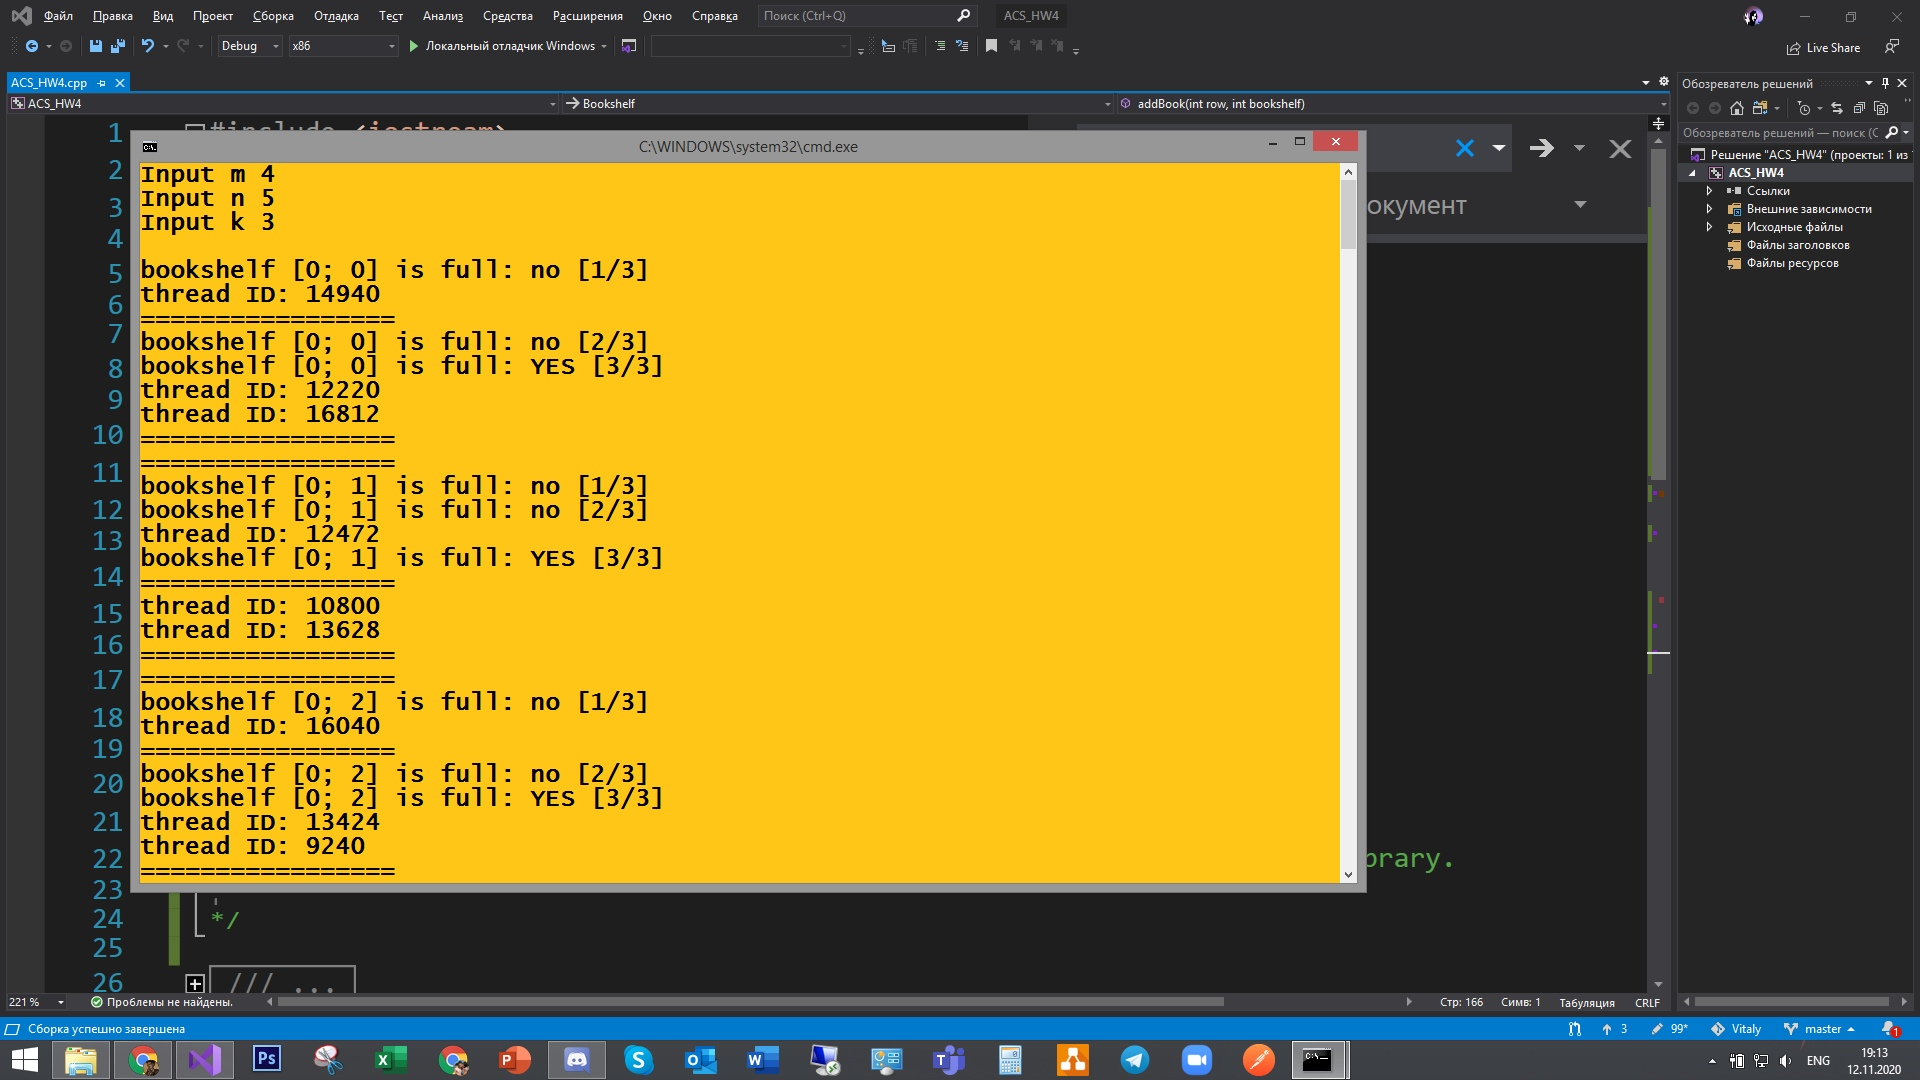
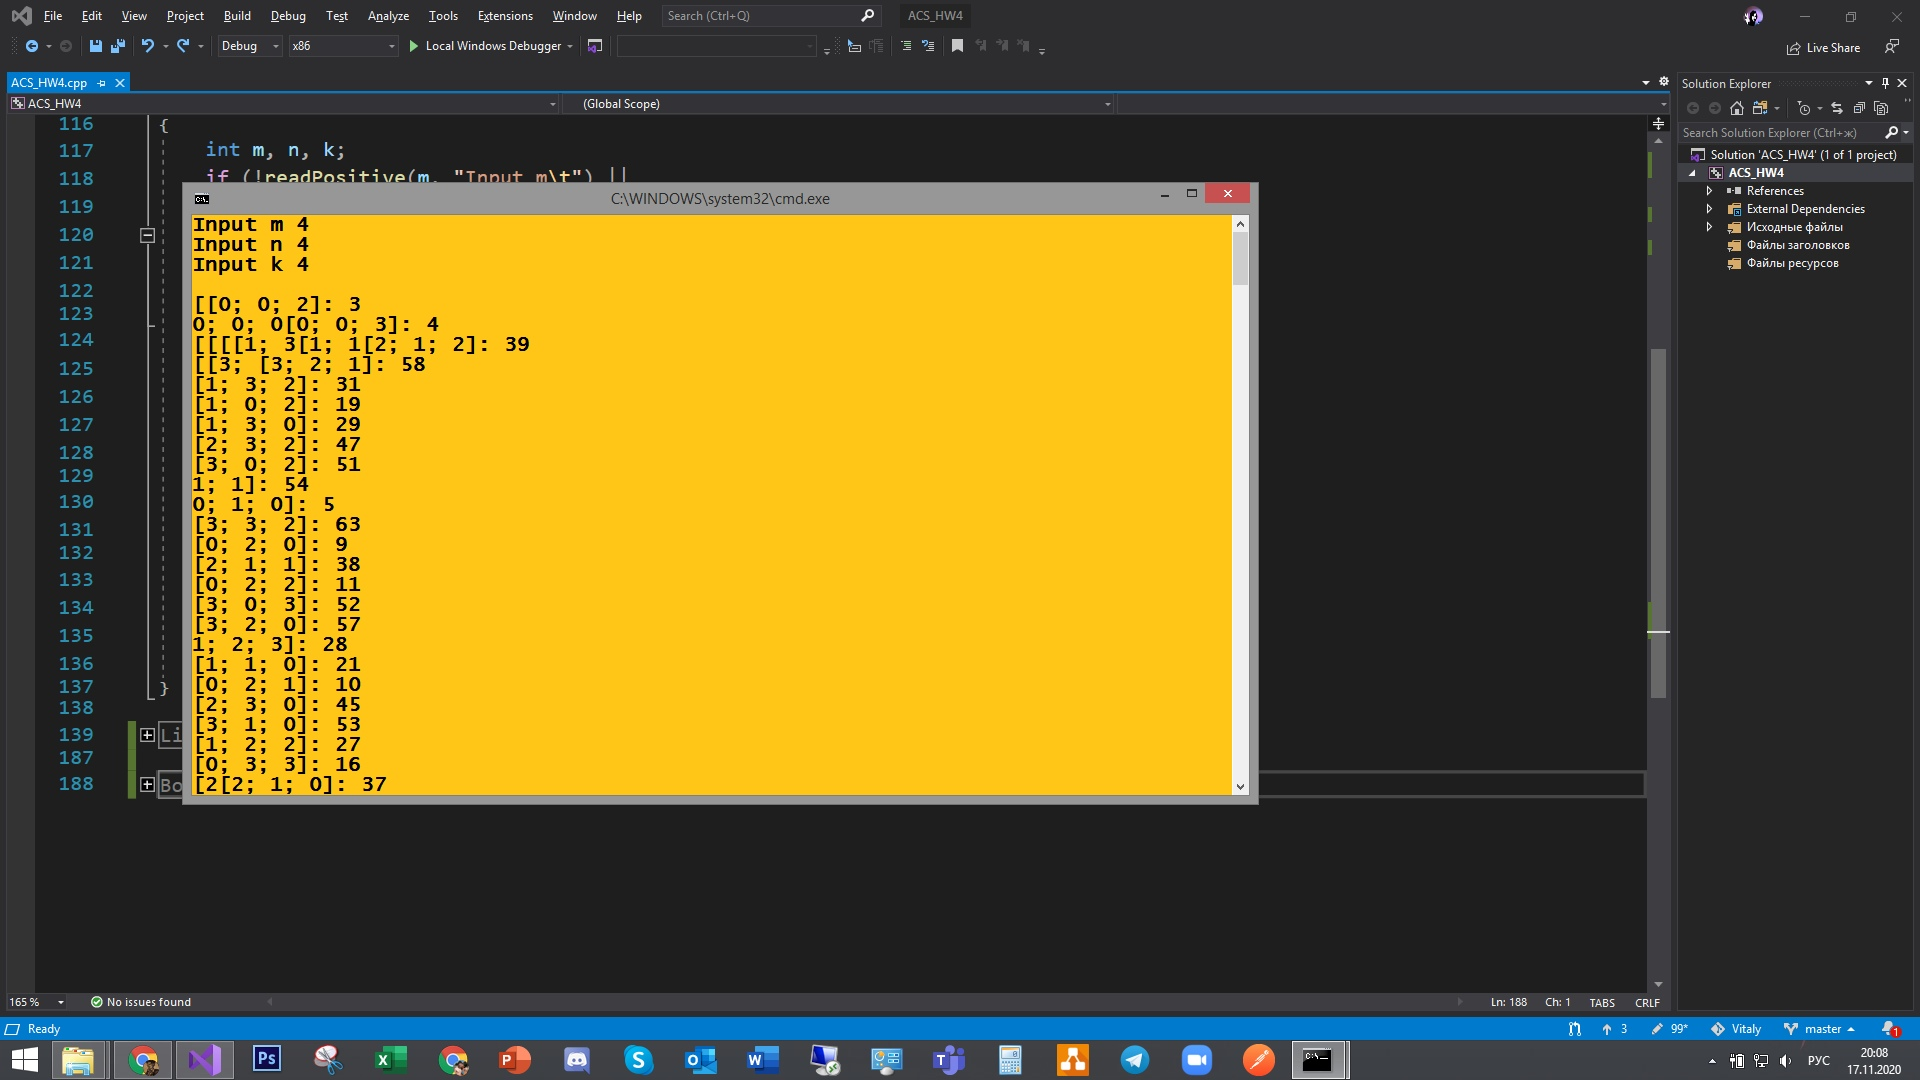
Solution 2

diff --git a/HW3/ACS_HW4.cpp b/HW3/ACS_HW4.cpp
@@ -1,24 +1,25 @@
 #include <iostream>
 #include <thread>
-#include <vector>
 
 using namespace std;
 
 /*
 	Попов Виталий БПИ192
 
+	UPD16.11.20: После семинара добавляю ID книг в каталог
+
 	Структура:
 		Bookshelf - отвечает за хранение и заполнение 1-ой книжной полки.
 		Также способно проверить, заполнена ли книжная полка.
 
-		Library - хранит библиотеку, 
+		Library - хранит библиотеку,
 		представляющую собой ряды по несколько книжных полок.
 
-		Параметры для этих классов не изменяются 
+		Параметры для этих классов не изменяются
 		--> они static и задаются с самого начала.
 
-		Необходимо сделать "Портфель задач", 
-		т.е. занесение 1-ой книги в отдельном потоке. 
+		Необходимо сделать "Портфель задач",
+		т.е. занесение 1-ой книги в отдельном потоке.
 		Многопоточность представлена в методе заполнения Library - FillLibrary.
 
 */
@@ -29,28 +30,31 @@ using namespace std;
 /// </summary>
 class Bookshelf {
 public:
-	static unsigned int maxBooks;
+	static size_t maxBooks;
+
+	Bookshelf() {
+		books = new size_t[maxBooks]{ 0 };
+	}
 
 	/// <summary>
-	/// Метод добавляет 1 книгу и выводит самую последнюю информацию.
-	/// Вывод может искажаться за счёт многопоточности. 
-	/// Выводится самое последнее значение currentBooks, 
-	/// а не то, которое было на момент выполнения потока
-	///
-	/// Также из-за использования 1 потока вывода в консоль
-	/// информация в консоли может искажаться
+	///	Ложит книгу bookID на полку bookPlace.
+	/// Выводит информацию о местоположении книги и её ID
 	/// </summary>
 	/// <param name="row">Для вывода: ряд книг</param>
 	/// <param name="bookshelf">Для вывода: номер книжной полки</param>
-	void addBook(int row, int bookshelf);
+	void addBook(int row, int bookshelf, int bookPlace, int bookID);
 
 	/// <returns>Проверяет, заполнена ли книжная полка</returns>
-	bool isFull() { return currentBooks == maxBooks; }
+	bool isFull();
 
 private:
-	unsigned int currentBooks = 0;
+	/// <summary>
+	/// ID книг в библиотеке
+	/// </summary>
+	size_t* books;
+
 };
-unsigned int Bookshelf::maxBooks = 0;
+size_t Bookshelf::maxBooks = 0;
 
 class Library
 {
@@ -58,12 +62,12 @@ public:
 	/// <summary>
 	/// Количество шкафов
 	/// </summary>
-	static unsigned int bookshelfs;
+	static size_t bookshelfs;
 
 	/// <summary>
 	/// Количество рядов
 	/// </summary>
-	static unsigned int bookshelfsRows;
+	static size_t bookshelfsRows;
 
 	/// <summary>
 	/// Создаём ряды шкафов
@@ -74,14 +78,14 @@ public:
 		for (size_t i = 0; i < bookshelfsRows; i++)
 		{
 			library[i] = new Bookshelf[bookshelfs];
-			// Мб тут ошибка. Мб не нужно создавать все экземпляры
-			for (size_t j = 0; j < bookshelfs; j++)
-				library[i][j] = Bookshelf();
+			//for (size_t j = 0; j < bookshelfs; j++)
+			//	library[i][j] = Bookshelf();
 		}
 	}
 	~Library() {
 		for (size_t i = 0; i < bookshelfsRows; i++)
 			delete[] library[i];
+		delete[] library;
 	}
 
 	/// <summary>
@@ -90,32 +94,36 @@ public:
 	void FillLibrary();
 
 	/// <summary>
-	/// Устанавливаем 1 книгу в указанную книжную полку.
-	/// </summary>
-	/// <param name="row">Ряд книнг</param>
-	/// <param name="indexBookshelf">Книжная полка в ряду</param>
-	void AddLastBook(int row, int indexBookshelf);
-
-	/// <summary>
 	/// Проверяет, отработала ли программа
 	/// </summary>
 	/// <returns>Заполнены ли все шкафы с книгами</returns>
 	bool CheckEveryBookshelfs();
 
 private:
-	unsigned int lastBookshelf = 0;
+	size_t lastBookshelf = 0;
 	Bookshelf** library;
 };
-unsigned int Library::bookshelfs = 0;
-unsigned int Library::bookshelfsRows = 0;
+size_t Library::bookshelfs = 0;
+size_t Library::bookshelfsRows = 0;
 
+/// <summary>
+/// Метод для считывания положительного числа 
+/// </summary>
+/// <returns>Корректность числа</returns>
+bool readPositive(int& num, string text) {
+	cout << text; cin >> num;
+	return num > 0;
+}
 
 int main()
 {
 	int m, n, k;
-	cout << "Input m\t"; cin >> m;
-	cout << "Input n\t"; cin >> n;
-	cout << "Input k\t"; cin >> k;
+	if (!readPositive(m, "Input m\t") ||
+		!readPositive(n, "Input n\t") ||
+		!readPositive(k, "Input k\t")) {
+		cout << "[ERROR] You must have positive num of books in library.\n";
+		return 1;
+	}
 	cout << "\n";
 	// Устанавливаем значения
 	Library::bookshelfsRows = m;
@@ -128,50 +136,70 @@ int main()
 	cout << "\nAll filled:\t"
 		<< (university.CheckEveryBookshelfs() ? "yes" : "no")
 		<< "\n\n";
+	return 0;
 }
 
 #pragma region Library
 void Library::FillLibrary() {
-	for (size_t i = 0; i < bookshelfsRows; i++) 
-		for (size_t j = 0; j < bookshelfs; j++) 
-			AddLastBook(i, j);
-}
 
-void Library::AddLastBook(int row, int indexBookshelf) {
+	// Проверка на существование книг. Хотя какой это каталог без книг?
+	if (bookshelfs == 0) {
+		cout << "[ERROR] You must have books in library." << endl;
+		return;
+	}
 
-	//if (library[lastBookshelf].isFull()) return;
-	//library[row][indexBookshelf].addBook();
-	int max = library[row][indexBookshelf].maxBooks;
+	const int maxBooks = library[0][0].maxBooks;
+	const int max = bookshelfsRows * bookshelfs * maxBooks;
+
+	int	bookID = 1; // Уникальный ID книги.
 	thread* th = new thread[max];
 
-	for (size_t i = 0; i < max; i++)
-		th[i] = thread([&]() { library[row][indexBookshelf].addBook(row, indexBookshelf); });
+	// Раскладываем книги по полкам
+	for (size_t i = 0; i < bookshelfsRows; i++)
+		for (size_t j = 0; j < bookshelfs; j++)
+			for (size_t k = 0; k < maxBooks; k++, bookID++)
+				th[bookID - 1] = thread(&Bookshelf::addBook, library[i][j], i, j, k, bookID);
 
-	for (size_t i = 0; i < max; i++)
-		th[i].join();
-
+	// Завершаем
+	for (size_t i = 0; i < max; i++) {
+		if (th[i].joinable())
+			th[i].join();
+		else cout << i << " is not joinable\n";
+	}
 }
 
 bool Library::CheckEveryBookshelfs() {
+
+	cout << "\n\nCheck===================START\n";
+
 	for (size_t i = 0; i < bookshelfsRows; i++) {
 		for (size_t j = 0; j < bookshelfs; j++) {
-			if (!library[i][j].isFull())
+			cout <<  "Check "<< i << " " << j << ": ";
+			if (!library[i][j].isFull()) {
+				cout << "\tUNACCEPTABLE!!" << endl;
 				return false;
+			}
+
+			cout << "\tcorrect\n";
 		}
 	}
+	cout << "Check===================END" << endl;
 	return true;
 }
 #pragma endregion
 
-void Bookshelf::addBook(int row, int bookshelf) {
-	
-	cout << "bookshelf [" << row << "; " << bookshelf << "] is full: ";
-	currentBooks++;
-	
-	if (isFull()) cout << "YES [" << currentBooks << '/' << maxBooks << ']' << '\n';
-	else		   cout << "no [" << currentBooks << '/' << maxBooks << ']' << '\n';
+#pragma region Bookshelf
+void Bookshelf::addBook(int row, int bookshelf, int bookPlace, int bookID) {
 
-
-	cout << "thread ID: " << this_thread::get_id() << '\n'
-		<< "=================\n";
+	cout << "[" << row << "; " << bookshelf << "; " << bookPlace << "]: " << bookID << '\n';
+	this->books[bookPlace] = (size_t)bookID;
 }
+
+bool Bookshelf::isFull() {
+	for (size_t i = 0; i < maxBooks; i++)
+		if (this->books[i] == 0)
+			return false;
+	
+	return true;
+}
+#pragma endregion

diff --git a/HW3/README.md b/HW3/README.md
@@ -1,0 +1,5 @@
+# homework 3
+
+Здесь есть 2 коммита:
+1. В потоке только выводится запись о том, что книга попала на полку
+2. Поток кладёт книгу [Её ID, а больше о ней ничего не известно] на полку [Bookshelf]  
